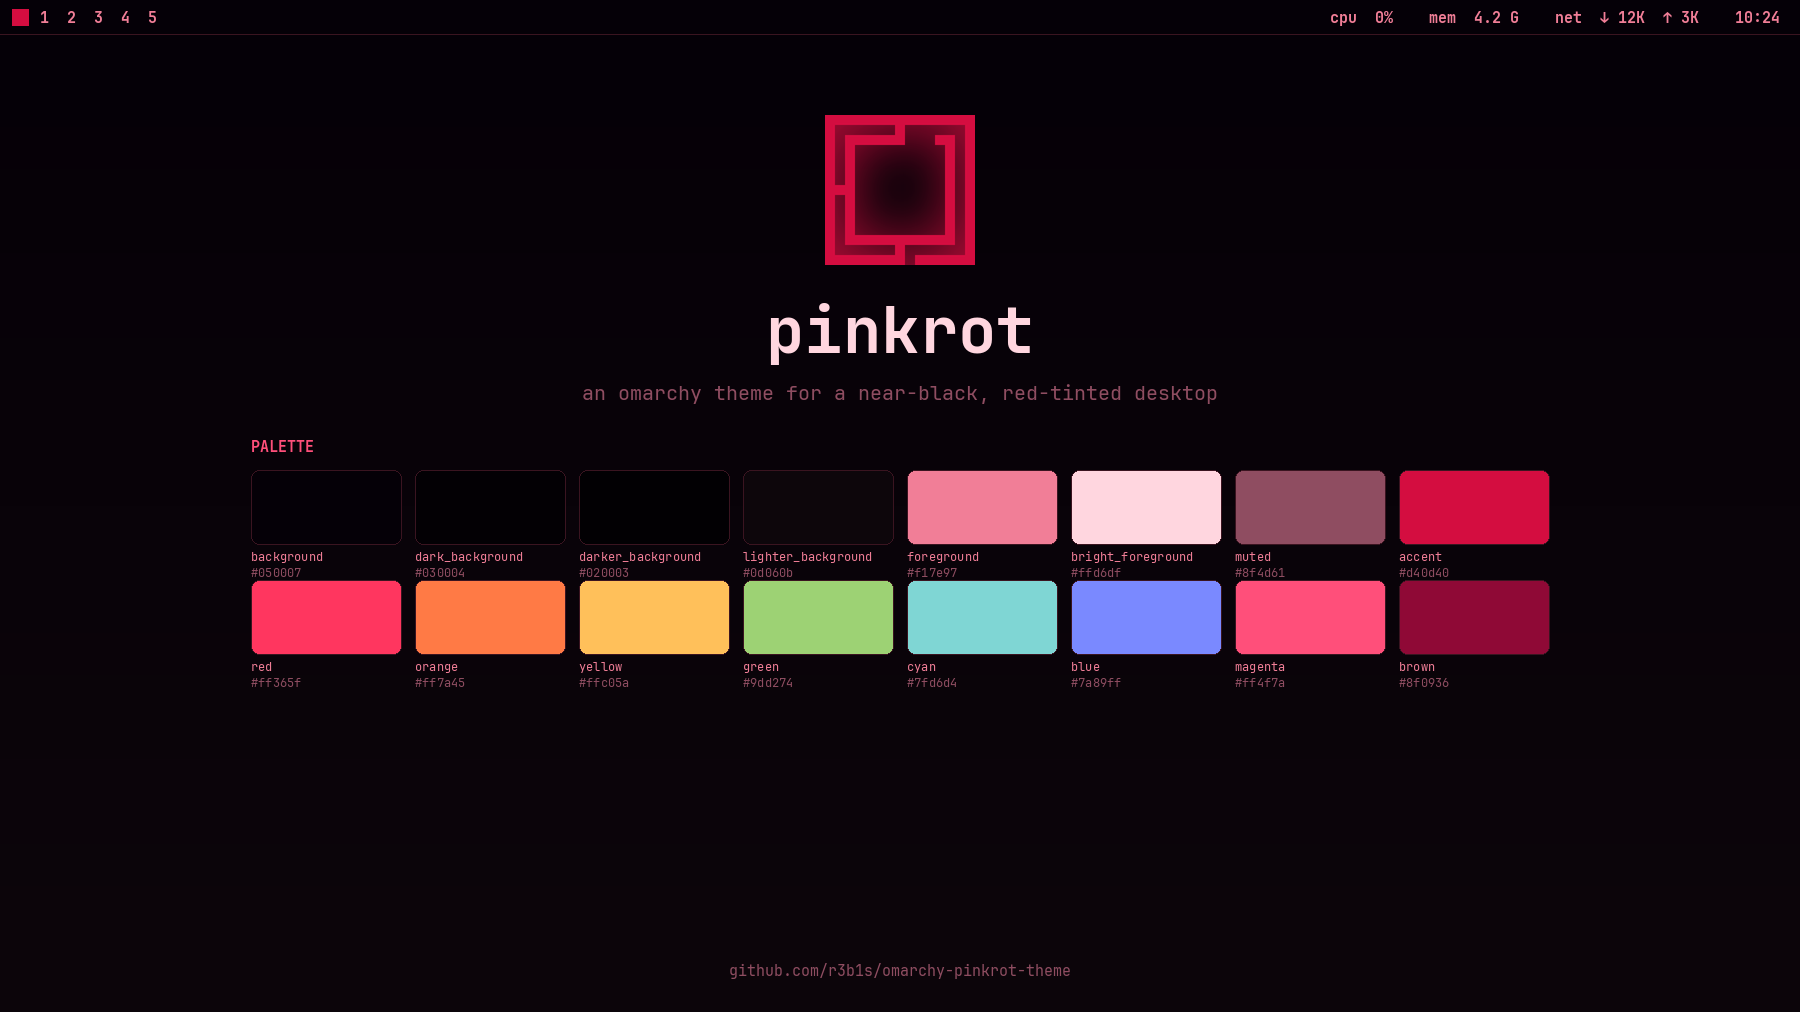
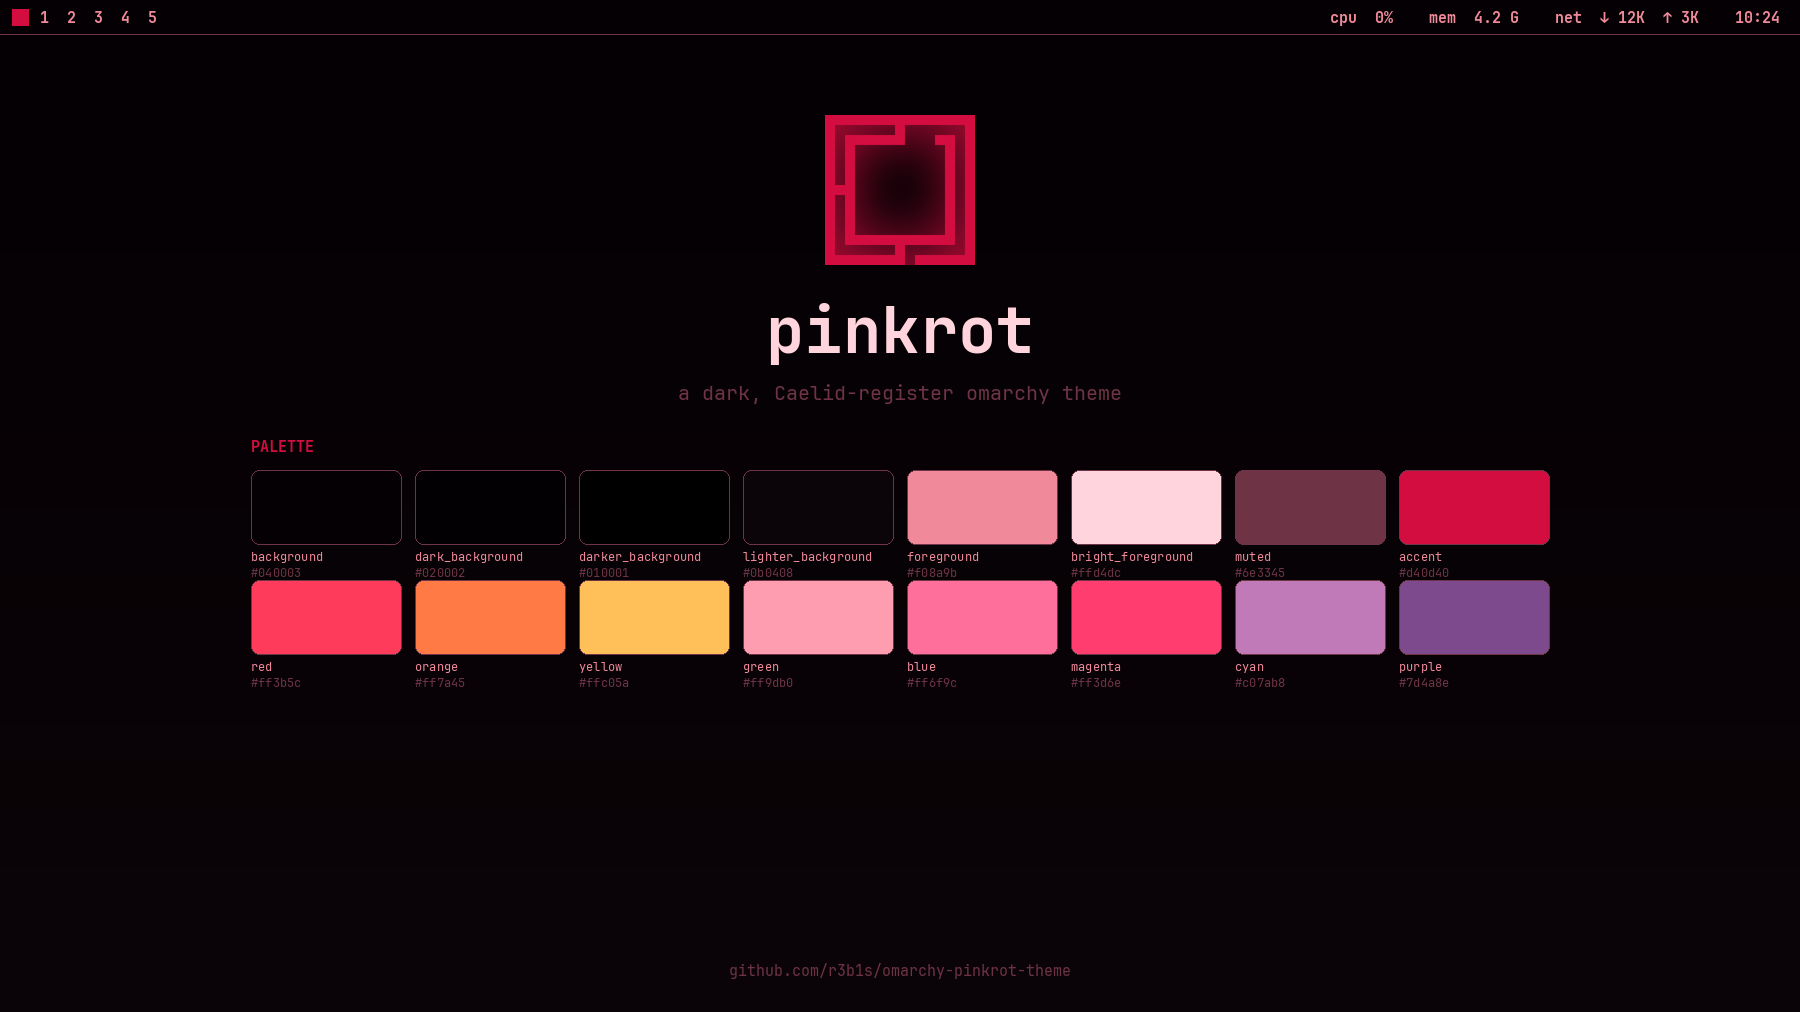
Retune palette to Caelid: pink/red/purple, no green/blue/brown
- accents stay on the pink-red spectrum; green/blue/cyan slots carry rose
  and orchid hues so eza, starship and pi stop painting green/teal
- add bruised purples (cyan=orchid, purple, brown=deep plum)
- darken background to #040003 and muted to #6e3345 for TUI contrast
- chromium.theme now a red-hued #3a0a1c so Material-You derives red, not
  the bright purple that #050007 (blue-dominant) produced

Changed region(s): [[0.4044, 0.4595, 0.8711, 0.6739], [0.3422, 0.3676, 0.6844, 0.3982], [0.1556, 0.4289, 0.1867, 0.4595]]

diff --git a/README.md b/README.md
@@ -1,9 +1,10 @@
 # Omarchy pinkrot theme
 
-pinkrot is a near-black, red-tinted theme: crimson chrome on a `#050007`
-surface, a warm pink foreground, and `#d40d40` as the accent. It is the Omarchy
-port of the `pinkrot` theme from
-[athena-dots](https://github.com/r3b1s/athena-dots).
+pinkrot is a dark, near-black theme in the Caelid register: scarlet, ember and
+gold over a red-tinted void, with pink chrome and bruised purples for contrast.
+It is the Omarchy port of the `pinkrot` theme from
+[athena-dots](https://github.com/r3b1s/athena-dots), re-tuned so the accents
+stay on the pink-red spectrum.
 
 ## Preview
 
@@ -20,37 +21,40 @@ appears as *Pinkrot* in the theme switcher.
 
 ## Palette
 
-`colors.toml` is the source of truth. Chrome stays crimson; the syntax colours
-are pinkrot's own editor palette, so terminals and editors get distinguishable
-hues without leaving the red/pink family.
+`colors.toml` is the source of truth. There is deliberately **no green, blue,
+teal or brown** — every role is a red/gold, a pink, or a purple, and the
+background is darker than the original to keep text off its backdrop.
 
-| Role | Key | Value |
-| --- | --- | --- |
-| Accent | `accent` | `#d40d40` |
-| Selection | `selection` / `selection_foreground` | `#d40d40` / `#050007` |
-| Background | `background` | `#050007` |
-| Surface | `lighter_background` | `#0d060b` |
-| Foreground | `foreground` | `#f17e97` |
-| Bright foreground | `bright_foreground` | `#ffd6df` |
-| Muted | `muted` | `#8f4d61` |
-| Red | `red` | `#ff365f` |
-| Orange | `orange` | `#ff7a45` |
-| Yellow | `yellow` | `#ffc05a` |
-| Green | `green` | `#9dd274` |
-| Cyan | `cyan` | `#7fd6d4` |
-| Blue | `blue` | `#7a89ff` |
-| Magenta | `magenta` | `#ff4f7a` |
+| Role | Key | Value | Reads as |
+| --- | --- | --- | --- |
+| Accent | `accent` | `#d40d40` | crimson |
+| Selection | `selection` / `selection_foreground` | `#d40d40` / `#180107` | crimson / near-black |
+| Background | `background` | `#040003` | near-black red |
+| Surface | `lighter_background` | `#0b0408` | dark plum |
+| Foreground | `foreground` | `#f08a9b` | warm pink |
+| Bright foreground | `bright_foreground` | `#ffd4dc` | bone pink |
+| Muted | `muted` | `#6e3345` | dusky maroon |
+| Red | `red` | `#ff3b5c` | scarlet |
+| Orange | `orange` | `#ff7a45` | ember |
+| Yellow | `yellow` | `#ffc05a` | gold |
+| "Green" | `green` | `#ff9db0` | soft rose (strings, success) |
+| "Blue" | `blue` | `#ff6f9c` | hot rose (functions, directories) |
+| Magenta | `magenta` | `#ff3d6e` | hot pink (keywords) |
+| "Cyan" | `cyan` | `#c07ab8` | dusky orchid (links, the prompt) |
+| Purple | `purple` | `#7d4a8e` | bruise |
+| "Brown" | `brown` | `#5a1f3a` | deep plum |
 
-Window borders (`hyprland_active_border`, `hyprland_inactive_border`) carry the
-pinkrot red ramp as a gradient, which Omarchy feeds to Hyprland and the shell.
+The names in quotes keep their ANSI slots but not their hues, so tools that
+reach for `green`/`blue`/`cyan` land back inside the pink-red-purple family.
+Window borders (`hyprland_active_border`) run crimson into bruise.
 
-### Monochrome terminal
+### Why the background is so dark
 
-pinkrot's Athena terminal is a single-hue red ramp. Omarchy drives terminals
-from the same semantic keys as everything else, so a coloured terminal is the
-default here. `colors.toml` ends with a commented block that restores the
-monochrome ramp; uncomment it and re-apply the theme if you want the original
-terminal look back, accepting red-toned syntax highlighting as the trade.
+Chromium derives a full Material-You palette from `chromium.theme`. The
+original `#050007` background has a *blue*-dominant channel pair, so the
+derived browser theme came out bright purple; a near-black red seed keeps the
+browser in-family. The theme's darker background also lifts text off its
+backdrop in TUIs that paint selection rows with an ANSI bright-black.
 
 ## What's included
 
@@ -61,7 +65,7 @@ terminal look back, accepting red-toned syntax highlighting as the trade.
 | `unlock.png` / `preview-unlock.png` | Lock screen art (Style > Unlock) |
 | `preview.png` | Theme switcher preview |
 | `btop.theme` | pinkrot btop colours |
-| `chromium.theme` | Chromium background (`5,0,7`) |
+| `chromium.theme` | Browser theme seed (`58,10,28`) |
 | `icons.theme` | `Yaru-red` |
 | `keyboard.rgb` | Keyboard backlight colour (`#d40d40`) |
 
@@ -71,7 +75,5 @@ repo, so the repo only carries files that survive installation.
 
 ## Notes
 
-- `foreground` is the Athena terminal pink (`#f17e97`); `bright_foreground` is
-  the brighter editor foreground (`#ffd6df`) used for cursors and bright text.
 - Additional wallpaper for this theme goes in
   `~/.config/omarchy/backgrounds/pinkrot/`; it is not tracked here.
